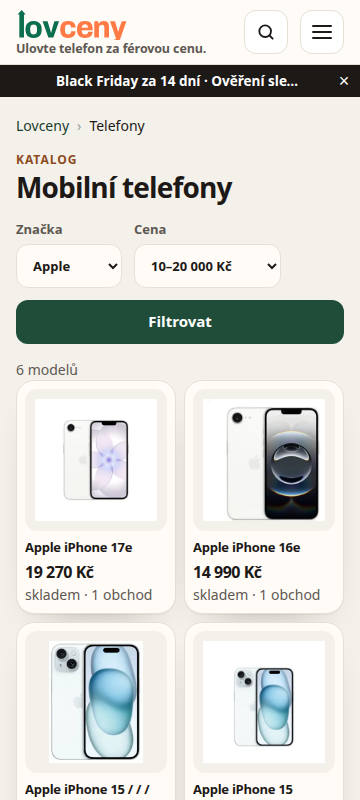
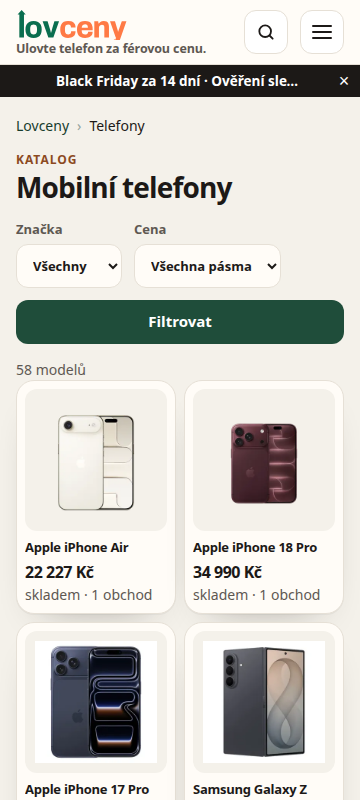
Show the popular phones again and strip feed noise from their names.
The homepage lists the most-offered models with an honest shop count, and a badge only when two shops confirm that price. A thin brand or price filter explains itself. Names drop tails such as / Mobilní telefon and / Ram.

diff --git a/lovceny/static/phones.css b/lovceny/static/phones.css
@@ -47,7 +47,11 @@ body{background:var(--bg);color:var(--ink);font-family:"Avenir Next","Segoe UI",
 .phone-hero .search .btn-primary{width:auto;flex:none;padding:0 18px}
 .hero-feature{display:none}
 .hero-trust{background:var(--soft);border:1px solid var(--line);border-radius:16px;padding:14px 16px}
-.hero-trust ul{list-style:none;margin:8px 0 0;padding:0;display:grid;gap:6px;font-size:14px;line-height:1.35}
+.trust-list,.hero-trust-line{list-style:none;margin:8px 0 0;padding:0;display:grid;gap:8px}
+.trust-list li,.hero-trust-line li{display:flex;align-items:flex-start;gap:8px;font-size:14px;line-height:1.35}
+.trust-check{flex:none;width:16px;height:16px;margin-top:1px;color:var(--brand)}
+.hero-trust-line{display:none}
+.phone-badge{display:inline-flex;margin-top:4px;padding:1px 8px;border-radius:999px;background:var(--brand-50);color:var(--brand);font-size:12px;font-weight:750;line-height:1.45;white-space:nowrap}
 .phone-board,.phone-guides,.phone-page{padding:8px 0 var(--space-6)}
 .phone-board-head{display:flex;justify-content:space-between;gap:var(--space-3);align-items:end;margin-bottom:8px}
 .phone-board-head h2{letter-spacing:-.03em;line-height:1.15;font-size:20px;margin:0}
@@ -82,6 +86,7 @@ body{background:var(--bg);color:var(--ink);font-family:"Avenir Next","Segoe UI",
 .phone-card-price{margin:4px 0 0;font-size:20px;letter-spacing:-.03em}
 .phone-card-price b{font-weight:750}
 .phone-card-meta,.phone-note,.phone-count,.phone-empty,.model-note{color:var(--muted);font-size:14px;line-height:1.45}
+.phone-card-meta .phone-badge{margin-left:0}
 .guide-links{display:grid;grid-template-columns:repeat(3,minmax(0,1fr));gap:var(--space-3);list-style:none;padding:0;margin:0}
 .guide-links a{display:flex;align-items:flex-end;background:var(--soft);border:1px solid var(--line);border-radius:16px;padding:16px;text-decoration:none;font-weight:700;min-height:88px;line-height:1.3}
 .phone-filter-form{display:flex;flex-wrap:wrap;gap:var(--space-3);align-items:end;margin:var(--space-4) 0}
@@ -151,6 +156,8 @@ body{background:var(--bg);color:var(--ink);font-family:"Avenir Next","Segoe UI",
   .phone-board-head{display:block}
   .phone-more{display:inline-block;margin-top:4px}
   .hero-feature,.hero-trust{display:none}
+  .hero-trust-line{display:flex;flex-wrap:wrap;gap:6px 14px;margin:12px 0 0;padding:10px 12px;background:var(--soft);border:1px solid var(--line);border-radius:12px}
+  .hero-trust-line li{align-items:center;font-size:13px;line-height:1.3}
   .phone-hero h1{font-size:24px;max-width:none}
   .phone-kicker{display:none}
   .phone-grid{grid-template-columns:repeat(2,minmax(0,1fr))}

diff --git a/lovceny/templates/index.html b/lovceny/templates/index.html
@@ -1,6 +1,15 @@
 {% extends "base.html" %}{% from "_macros.html" import phone_card, shop_img, img_missing %}
 {% block title %}Ulovte telefon za férovou cenu. | Lovceny{% endblock %}
 {% block description %}Ulovte telefon za férovou cenu. Nejnižší cena z českých e-shopů, historie a verdikt, jestli se sleva vyplatí.{% endblock %}
+{% macro trust_check() -%}
+<svg class="trust-check" viewBox="0 0 24 24" width="16" height="16" aria-hidden="true" fill="none" stroke="currentColor" stroke-width="2.4" stroke-linecap="round" stroke-linejoin="round"><path d="M5 12.5 9.5 17 19 7"/></svg>
+{%- endmacro %}
+{% macro trust_items() -%}
+<li>{{ trust_check() }}<span>{{ cz_count(model_count, "model", "modely", "modelů") }}</span></li>
+<li>{{ trust_check() }}<span>{{ cz_count(shop_count, "obchod", "obchody", "obchodů") }}</span></li>
+<li>{{ trust_check() }}<span>Cenu kontrolujeme denně</span></li>
+<li>{{ trust_check() }}<span>Nikdo neplatí za pořadí</span></li>
+{%- endmacro %}
 {% block body %}
 <header class="phone-hero" id="hledat"><div class="wrap phone-hero-grid">
   <div>
@@ -15,23 +24,20 @@
   </div>
   <aside class="hero-trust" aria-label="Jak ceny hlídáme">
     <p class="eyebrow">Jak to hlídáme</p>
-    <ul>
-      <li>{{ cz_count(model_count, "model", "modely", "modelů") }}</li>
-      <li>{{ cz_count(shop_count, "obchod", "obchody", "obchodů") }}</li>
-      <li>Cenu kontrolujeme denně</li>
-      <li>Nikdo neplatí za pořadí</li>
-    </ul>
+    <ul class="trust-list">{{ trust_items() }}</ul>
   </aside>
 </div></header>
 
 <section class="phone-board" aria-labelledby="phone-board-h"><div class="wrap">
   <div class="phone-board-head">
     <div>
-      <p class="eyebrow">Potvrzená cena</p>
-      <h2 id="phone-board-h">Aspoň dva obchody, stejné úložiště</h2>
+      <p class="eyebrow">Katalog</p>
+      <h2 id="phone-board-h">Nejoblíbenější telefony</h2>
+      <p class="phone-note">Odznak Ověřeno 2+ obchody znamená, že stejné úložiště a stejnou cenu hlásí aspoň dva obchody.</p>
     </div>
     <a class="phone-more" href="/telefony">Všechny telefony</a>
   </div>
+  <ul class="hero-trust-line" aria-label="Jak ceny hlídáme">{{ trust_items() }}</ul>
   <div class="phone-filters" aria-label="Filtrovat telefony">
     <div class="phone-scroll"><div class="phone-filter-row">
       <span>Značka</span>

diff --git a/lovceny/templates/phones.html b/lovceny/templates/phones.html
@@ -22,14 +22,27 @@
     <button class="btn btn-primary btn-sm" type="submit">Filtrovat</button>
   </form>
   <p class="phone-count">{{ cz_count(models|length, "model", "modely", "modelů") }}</p>
-  {% if models %}
+  {% if not models %}
+  <p class="phone-empty">
+    {% if brand and band_label %}Značka {{ brand }} v pásmu {{ band_label }} teď žádný telefon nemá.
+    Zkus <a href="/telefony?znacka={{ brand|urlencode }}">jen {{ brand }}</a>
+    nebo <a href="/telefony?pasmo={{ band }}">jen pásmo {{ band_label }}</a>.
+    {% elif brand %}Značku {{ brand }} teď v katalogu nemáme. Podívej se na <a href="/telefony">všechny telefony</a>.
+    {% elif band_label %}V pásmu {{ band_label }} teď žádný telefon nemáme. Podívej se na <a href="/telefony">celý katalog</a>.
+    {% else %}Zatím tu nemáme telefon, který bychom mohli férově ukázat.{% endif %}
+  </p>
+  {% else %}
+  {% if models|length < 4 %}
+  <p class="phone-empty">{% if models|length == 1 %}V tomhle výběru je jen 1 model.{% else %}V tomhle výběru jsou jen {{ cz_count(models|length, "model", "modely", "modelů") }}.{% endif %}
+    Širší výběr je v <a href="/telefony">celém katalogu</a>{% if brand and band_label %},
+    u <a href="/telefony?znacka={{ brand|urlencode }}">značky {{ brand }}</a>
+    nebo v <a href="/telefony?pasmo={{ band }}">pásmu {{ band_label }}</a>{% endif %}.</p>
+  {% endif %}
   <div class="phone-grid">
     {% for model in models %}
     {{ phone_card(model) }}
     {% endfor %}
   </div>
-  {% else %}
-  <p class="phone-empty">V tomhle výběru teď žádný telefon nemáme. Zkus jiné pásmo nebo <a href="/telefony">celý katalog</a>.</p>
   {% endif %}
 </div>
 {% endblock %}

diff --git a/lovceny/templates/_macros.html b/lovceny/templates/_macros.html
@@ -74,7 +74,7 @@
     <div class="phone-card-img">{% if model.image %}{{ shop_img(model.image, 160, priority=priority, alt="", sizes="(min-width:960px) 220px, 70vw") }}{% else %}{{ img_missing() }}{% endif %}</div>
     <h3>{{ model.name }}</h3>
     <p class="phone-card-price">{% if model.lowest is not none %}<b>{{ model.lowest|czk }}</b>{% else %}<b>Cenu zjišťujeme</b>{% endif %}</p>
-    <p class="phone-card-meta">{% if model.in_stock %}skladem{% else %}není skladem{% endif %}{% if model.price_shops %} · {{ cz_count(model.price_shops, "obchod", "obchody", "obchodů") }}{% endif %}</p>
+    <p class="phone-card-meta">{% if model.in_stock %}skladem{% else %}není skladem{% endif %}{% if model.price_shops %} · {{ cz_count(model.price_shops, "obchod", "obchody", "obchodů") }}{% endif %}{% if model.price_shops >= 2 %} <span class="phone-badge">Ověřeno 2+ obchody</span>{% endif %}</p>
   </a>
 </article>
 {%- endmacro %}

diff --git a/tests/test_phones.py b/tests/test_phones.py
@@ -43,6 +43,12 @@ def test_same_storage_only_and_a_far_outlier_stays_out_of_the_price():
         from lovceny.phones import _fix_casing, _model_name, price_trust
         assert _model_name(["Samsung Galaxy Z FOLD8 256GB černá"]) == "Samsung Galaxy Z Fold8"
         assert _fix_casing("iPhone 16 Pro Max FE 5G") == "iPhone 16 Pro Max FE 5G"
+        assert _model_name(["Nothing Phone (3a) Lite 8/128GB černá / Mobilní telefon / 8 GB RAM / 128 GB"]) == "Nothing Phone 3a Lite"
+        assert _model_name(["Nothing Phone 3a Lite / Mobilní telefon / Ram"]) == "Nothing Phone 3a Lite"
+        assert _model_name(["Apple iPhone 15 128GB modrá / 6.1\" / 128GB / iOS17.3"]) == "Apple iPhone 15"
+        assert _model_name(["Mobilní telefon Samsung Galaxy A55 128GB"]) == "Samsung Galaxy A55"
+        assert _model_name(["Smartphone Xiaomi Redmi Note 12 128GB"]) == "Xiaomi Redmi Note 12"
+        assert _model_name(["Honor 600 Smart 5G Dual SIM barva Meteor Silver paměť 4GB/256GB"]) == "Honor 600 Smart"
         cheap = _phone(db, "Apple iPhone Air 256GB černá", 10000, shop="tera", slug="air-tera")
         _phone(db, "Apple iPhone Air 256GB bílá", 32000, shop="alza", slug="air-alza")
         _phone(db, "Apple iPhone Air 256GB modrá", 33000, shop="datart", slug="air-datart")
@@ -131,11 +137,19 @@ def test_card_shop_count_matches_the_shown_price():
         card = catalog.split("iPhone Air", 1)[1].split("</article>", 1)[0]
         assert "1\xa0obchod" in card
         assert "3\xa0obchody" not in card
+        _phone(db, "Samsung Galaxy A55 128GB", 8990, shop="alza", slug="a55-alza")
+        _phone(db, "Samsung Galaxy A55 128GB", 9100, shop="datart", slug="a55-datart")
         home = client.get("/").text
         assert "Nejnižší teď" not in home
-        assert "22\xa0227" not in home
+        assert "Nejoblíbenější telefony" in home
         assert "Cenu kontrolujeme denně" in home
         assert "Nikdo neplatí za pořadí" in home
+        assert home.find("Galaxy A55") < home.find("iPhone Air")
+        air = home.split("iPhone Air", 1)[1].split("</article>", 1)[0]
+        assert "22\xa0227" in air
+        assert "1\xa0obchod" in air
+        assert "Ověřeno 2+ obchody" not in air
+        assert "Ověřeno 2+ obchody" in home.split("Galaxy A55", 1)[1].split("</article>", 1)[0]
     finally:
         db.close()
 
@@ -173,6 +187,24 @@ def test_guide_uses_only_prices_we_have():
         db.close()
 
 
+def test_thin_filter_explains_the_empty_grid():
+    init_db()
+    db = SessionLocal()
+    try:
+        _phone(db, "Samsung Galaxy A55 128GB", 8990, slug="a55")
+        client = TestClient(app)
+        missing = client.get("/telefony?znacka=Apple&pasmo=do-5").text
+        assert "Značka Apple v pásmu do 5 000 Kč" in missing
+        assert "jen Apple" in missing
+        assert "phone-grid" not in missing
+        one = client.get("/telefony?znacka=Samsung").text
+        assert "jen 1 model" in one
+        assert "celém katalogu" in one
+        assert "Galaxy A55" in one
+    finally:
+        db.close()
+
+
 def test_public_site_hides_other_categories_and_accessories():
     init_db()
     db = SessionLocal()
@@ -187,7 +219,7 @@ def test_public_site_hides_other_categories_and_accessories():
         assert home.status_code == 200
         catalog = client.get("/telefony").text
         assert "Samsung Galaxy A55" in catalog
-        assert "Samsung Galaxy A55" not in home.text
+        assert "Samsung Galaxy A55" in home.text
         assert "IdeaPad" not in home.text
         assert "Pouzdro" not in home.text
         assert "Repas" not in home.text

diff --git a/lovceny/phones.py b/lovceny/phones.py
@@ -270,7 +270,7 @@ _EXTRA_COLOR = {
     "kosmicka", "temne", "temny", "mlhove", "mlhovy", "oblacne", "oblacny",
     "svetle", "svetly", "starlit", "ice", "denim", "velvet", "sprout", "meteor",
     "golden", "sporting", "bright", "blackened", "sage", "jet",
-    "krem", "grafit",
+    "krem", "grafit", "hneda", "hnedou", "matova", "matovy",
 }
 
 
@@ -297,6 +297,11 @@ _NAME_PREFIX = re.compile(
     r"^(?:chytr[ýy]\s+telefon|mobiln[íi]\s+telefon|smartphone)\s+",
     re.I,
 )
+_FEED_CATEGORY = re.compile(
+    r"\b(?:chytr[ýy]\s+telefon|mobiln[íi]\s+telefon|smartphone)\b",
+    re.I,
+)
+_IOS_TOKEN = re.compile(r"ios\d+(?:[.,]\d+)?", re.I)
 
 
 def _model_name(names: list[str]) -> str:
@@ -306,7 +311,10 @@ def _model_name(names: list[str]) -> str:
     prefixes = _color_prefixes()
     best = ""
     for raw in names:
-        name = _NAME_PREFIX.sub("", raw or "")
+        # Feed often appends "/ Mobilní telefon / 8 GB RAM". The model is the first segment.
+        name = re.split(r"\s+/\s+", raw or "", maxsplit=1)[0]
+        name = _FEED_CATEGORY.sub(" ", name)
+        name = _NAME_PREFIX.sub("", name)
         words = re.findall(r"\S+", name)
         kept = []
         codes = []
@@ -314,10 +322,13 @@ def _model_name(names: list[str]) -> str:
         noise = {
             "mah", "ip68", "esim", "lte", "nfc", "distribuce", "5g", "usb",
             "android", "hybridni", "dual", "ds", "hz", "typu", "cm", "mhz",
-            "chytry", "chytra", "sim",
+            "chytry", "chytra", "sim", "ram", "smartphone",
         }
         while index < len(words):
             raw_word = words[index]
+            if raw_word in {"/", "|"} or _IOS_TOKEN.fullmatch(raw_word.strip(".,")):
+                index += 1
+                continue
             if raw_word.startswith("(") and raw_word.endswith(")"):
                 inner = raw_word[1:-1].strip()
                 if re.fullmatch(r"\d+[A-Za-z]?", inner):
@@ -566,6 +577,22 @@ def group_phones(products: list[Product]) -> list[PhoneModel]:
         ))
     models.sort(key=lambda model: (-model.shops, model.lowest if model.lowest is not None else 10**12, model.name.casefold()))
     return models
+
+
+def home_models(models: list[PhoneModel], limit: int = 12) -> list[PhoneModel]:
+    """Nejoblíbenější na úvodu. Potvrzená cena první, pak nejvíc obchodů.
+
+    Jedna prodejna u ceny je v pořádku a počet obchodů to řekne. Ven jde jen
+    cena, kterou neoznačujeme jako nepotvrzenou a která není odlehlá nabídka.
+    """
+    shown = [model for model in models if model.lowest is not None]
+    shown.sort(key=lambda model: (
+        model.price_shops < 2,
+        -model.shops,
+        model.lowest if model.lowest is not None else 10**12,
+        model.name.casefold(),
+    ))
+    return shown[:limit]
 
 
 def in_band(price: float | None, low: int | None, high: int | None) -> bool:

diff --git a/lovceny/main.py b/lovceny/main.py
@@ -415,7 +415,7 @@ def _drop_broken_home_images(featured, extras, popular):
 
 @app.api_route("/", methods=["GET", "HEAD"], response_class=HTMLResponse)
 def home(request: Request, db=Depends(get_db)):
-    from .phones import BANDS, GUIDES, brands_in, buying_signal, phone_models
+    from .phones import BANDS, GUIDES, brands_in, buying_signal, home_models, phone_models
     models = phone_models(db)
     confirmed = [model for model in models if model.price_shops >= 2 and model.lowest is not None]
     drops = []
@@ -426,7 +426,7 @@ def home(request: Request, db=Depends(get_db)):
         if len(drops) == 3:
             break
     return tpl.TemplateResponse(request, "index.html", {
-        "models": confirmed[:8],
+        "models": home_models(models),
         "drops": drops,
         "brands": brands_in(models),
         "bands": BANDS,
@@ -457,11 +457,15 @@ def _phone_or_home(product: Product):
 def phones_page(request: Request, znacka: str = "", pasmo: str = "", db=Depends(get_db)):
     from .phones import BANDS, brands_in, filter_models, phone_models
     models = phone_models(db)
-    shown = filter_models(models, brand=znacka.strip(), band=pasmo.strip())
+    brand = znacka.strip()
+    band = pasmo.strip()
+    shown = filter_models(models, brand=brand, band=band)
+    spec = next((item for item in BANDS if item[0] == band), None)
     crumbs = [("Lovceny", "/"), ("Telefony", "/telefony")]
     return tpl.TemplateResponse(request, "phones.html", {
         "models": shown, "brands": brands_in(models), "bands": BANDS,
-        "brand": znacka.strip(), "band": pasmo.strip(), "crumbs": crumbs,
+        "brand": brand, "band": band, "band_label": spec[1] if spec else "",
+        "crumbs": crumbs,
         "canonical_path": "/telefony",
         "ld": [seo.breadcrumb_ld(crumbs)],
     })

diff --git a/tests/test_home_layout.py b/tests/test_home_layout.py
@@ -45,7 +45,7 @@ def test_homepage_hides_products_without_image_and_category_sorts_them_last(clie
     clear()
 
     home = client.get("/").text
-    assert "Potvrzená cena" in home
+    assert "Nejoblíbenější telefony" in home
     assert "Drahý telefon s fotkou" in home
     assert "Levný telefon bez fotky" in home
     assert "Naposledy přidané" not in home
@@ -99,7 +99,7 @@ def test_popular_needs_image_stock_and_two_shops(client_db):
     assert slugs[:2] == ["telefony", "vysavace"] or set(slugs[:2]) == {"telefony", "vysavace"}
 
     html = client.get("/").text
-    assert "Potvrzená cena" in html
+    assert "Nejoblíbenější telefony" in html
     assert "Oblíbený telefon" in html
     assert "Vyprodaný notebook" not in html
     assert "Oblíbený vysavač" not in html
@@ -117,7 +117,7 @@ def test_home_chips_filter_markup(client_db):
     b.image_url = "https://img.example/b.jpg"
     db.commit()
     html = client.get("/").text
-    assert "Potvrzená cena" in html
+    assert "Nejoblíbenější telefony" in html
     assert "Chip telefon" in html
     assert "Chip notebook" not in html
     assert 'href="/telefony"' in html

diff --git a/tests/test_hero.py b/tests/test_hero.py
@@ -123,7 +123,7 @@ def test_home_renders_hero_picks():
     _seed(db, name="Apple iPhone 16 128GB", prices=[3000] * 9 + [2100],
           category_slug="telefony", category="Mobilní telefony", shops=("mironet", "alza"))
     html = TestClient(app).get("/").text
-    assert "Aspoň dva obchody, stejné úložiště" in html
+    assert "Nejoblíbenější telefony" in html
     assert "phone-card" in html
     assert "Apple iPhone 16" in html
     assert "Notebooky" not in html
@@ -282,7 +282,7 @@ def test_hero_oos_not_buyable_and_accessory_not_filed_as_main():
     assert cheap.url not in html
     assert "USB-C kabel" not in html
     assert "Galaxy A55" in html
-    assert "Potvrzená cena" in html
+    assert "Nejoblíbenější telefony" in html
     page = TestClient(app).get(f"/produkt/{phone.id}").text
     assert f'href="/go/{phone_pick.best.id}"' in page
     hop = TestClient(app).get(f"/go/{phone_pick.best.id}", follow_redirects=False)

diff --git a/tests/test_pro_audit_fixes.py b/tests/test_pro_audit_fixes.py
@@ -51,7 +51,7 @@ def test_single_shop_coverage_copy(client_db):
     about = c.get("/o-nas").text
     assert "Nepokrýváme celý trh" in about
     home = c.get("/").text
-    assert "Potvrzená cena" in home
+    assert "Nejoblíbenější telefony" in home
     assert "Pokrytí roste" not in home
 
 
@@ -73,7 +73,7 @@ def test_quiet_slevy_dne_kept(client_db):
     css = open("lovceny/static/app.css", encoding="utf8").read()
     assert "expect-note-quiet" in css and "teaser-empty-quiet" in css
     index = open("lovceny/templates/index.html", encoding="utf8").read()
-    assert "Potvrzená cena" in index
+    assert "Nejoblíbenější telefony" in index
     assert "ukážeme nejlepší skutečné slevy" not in index
 
 

diff --git a/tests/test_ai.py b/tests/test_ai.py
@@ -164,7 +164,7 @@ def test_ui_shows_hint_and_summary(gemini, shops):
     answers["rank"] = {"keep": [0], "summary": "Nejlevnější tichá pračka <b>stojí</b> 8 990 Kč."}
     c = TestClient(app)
     assert "Rozumíme i běžné řeči" not in c.get("/").text
-    assert "Potvrzená cena" in c.get("/").text
+    assert "Nejoblíbenější telefony" in c.get("/").text
     assert "Rozumíme i běžné řeči" in c.get("/hledat", params={"q": "pračka"}).text
     html = c.get("/hledat/zive", params={"q": "tichá pračka do 10 tisíc"}).text
     assert 'class="ico"' in html and "&lt;b&gt;stojí" in html and "do 10 000" in html.replace("\xa0", " ")

diff --git a/tests/test_redesign.py b/tests/test_redesign.py
@@ -135,7 +135,7 @@ def test_home_hero_clarity():
     assert 'name="description" content="Ulovte telefon za férovou cenu.' in html
     assert 'property="og:description" content="Ulovte telefon za férovou cenu.' in html
     assert "Jak to funguje" not in html
-    assert "Potvrzená cena" in html
+    assert "Nejoblíbenější telefony" in html
     assert "Nejnižší ceny telefonů z českých" in html and "e-shopů" in html
     assert html.count("Ulovte telefon za férovou cenu.") >= 4
     assert 'id="nav-toggle"' in html and "aria-expanded" in html
